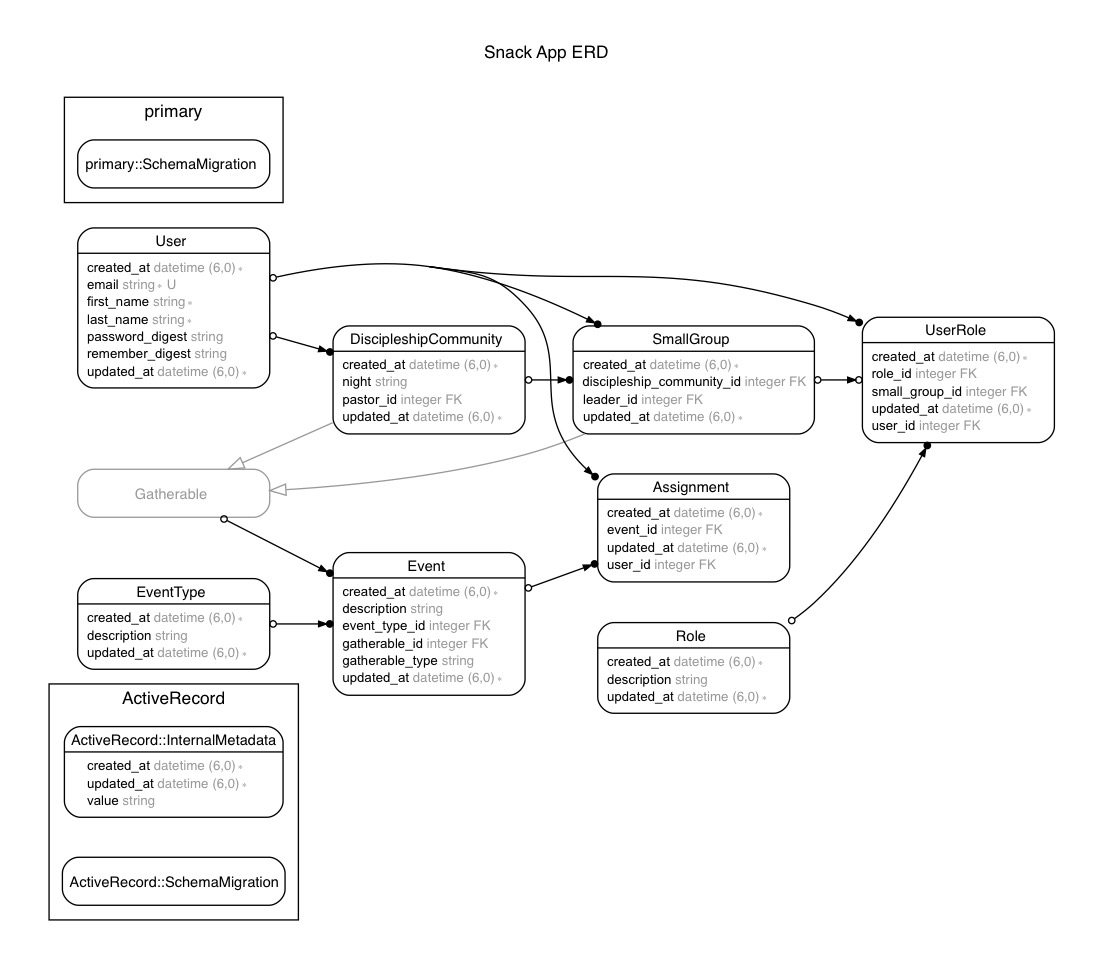
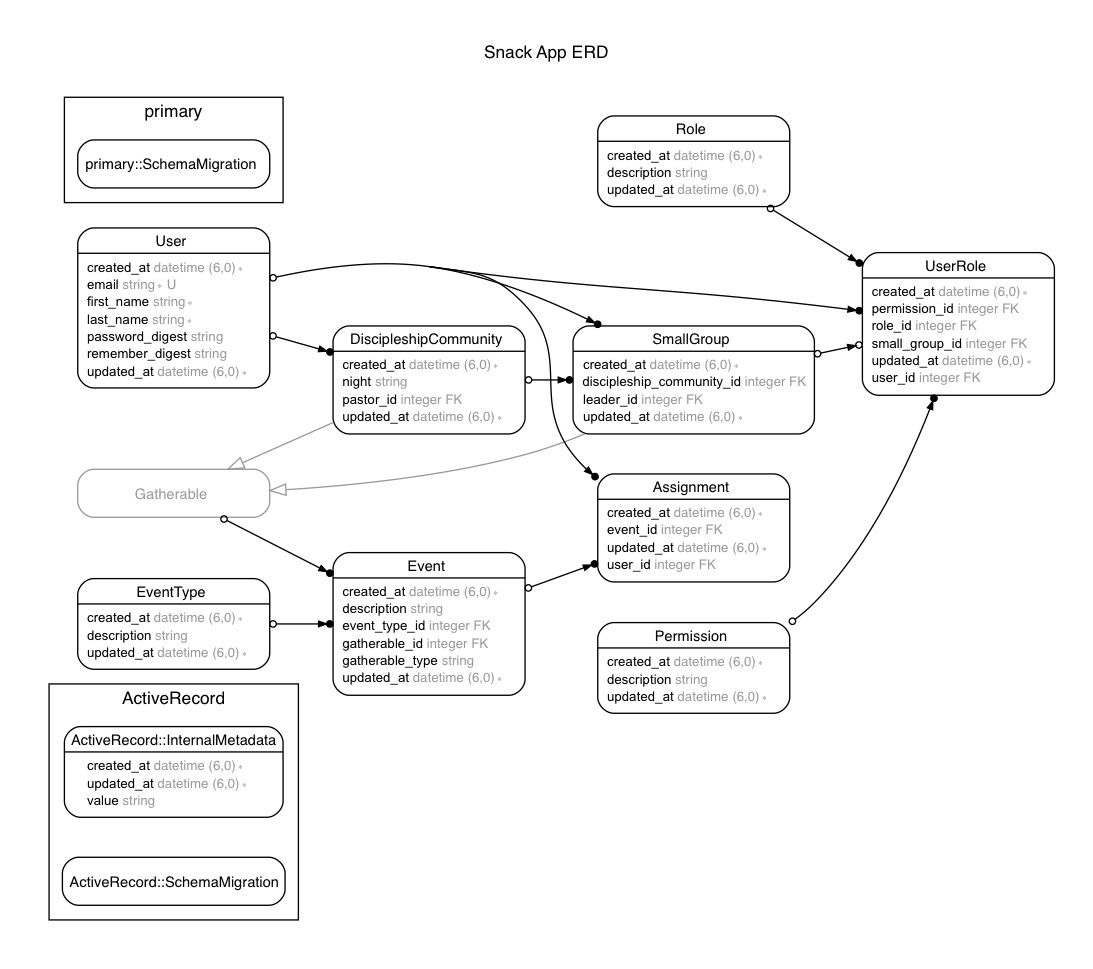
add user role permissions

diff --git a/app/assets/stylesheets/permissions.scss b/app/assets/stylesheets/permissions.scss
@@ -1,0 +1,3 @@
+// Place all the styles related to the Permissions controller here.
+// They will automatically be included in application.css.
+// You can use Sass (SCSS) here: http://sass-lang.com/

diff --git a/db/seeds.rb b/db/seeds.rb
@@ -6,10 +6,22 @@
 #   movies = Movie.create([{ name: 'Star Wars' }, { name: 'Lord of the Rings' }])
 #   Character.create(name: 'Luke', movie: movies.first)
 
-event_type_meeting = EventType.create({ event_type_description: 'Meeting' })
-event_type_dc = EventType.create({ event_type_description: 'Discipleship Community' })
-event_type_party = EventType.create({ event_type_description: 'Party' })
-event_type_other = EventType.create({ event_type_description: 'Other' })
+event_types = EventType.create([
+  { description: 'Meeting' },
+  { description: 'Discipleship Community' },
+  { description: 'Party' },
+  { description: 'Other' }
+  ])
+
+permissions = Permission.create([
+  { description: 'User' },
+  { description: 'Group Assistant' },
+  { description: 'Group Coordinator' },
+  { description: 'Discipleship Community Assistant' },
+  { description: 'Discipleship Community Coordinator' },
+  { description: 'Supervisor' },
+  { description: 'Administrator' }
+])
 
 users = User.create([
   { first_name: 'Discipleship Community', last_name: 'Pastor', email: 'pastor@discipleshipcommunity.com', 
@@ -26,22 +38,24 @@ users = User.create([
       password: 'testingallthetests', password_confirmation: 'testingallthetests' }
 ])
 
+
+
 roles = Role.create([
-  { role_description: 'Discipleship Community pastor' },
-  { role_description: 'Small group leader' },
-  { role_description: 'Small group member' }
+  { description: 'Discipleship Community pastor' },
+  { description: 'Small group leader' },
+  { description: 'Small group member' }
 ])
 
 user_roles = UserRole.create([
-  { user_id: users[0].id, role_id: roles[0].id },
-  { user_id: users[1].id, role_id: roles[1].id, small_group_id: 1},
-  { user_id: users[2].id, role_id: roles[2].id, small_group_id: 1}
+  { user_id: users[0].id, role_id: roles[0].id, permission_id: permissions[3].id},
+  { user_id: users[1].id, role_id: roles[1].id, small_group_id: 1, permission_id: permissions[1].id},
+  { user_id: users[2].id, role_id: roles[2].id, small_group_id: 1, permission_id: permissions[0].id}
 ])
 
 discipleship_communities = DiscipleshipCommunity.create([
-  { pastor_id: users[0].id, discipleship_community_night: 'Tuesday'},
-  { pastor_id: users[0].id, discipleship_community_night: 'Wednesday'},
-  { pastor_id: users[0].id, discipleship_community_night: 'Thursday'}
+  { pastor_id: users[0].id, night: 'Tuesday'},
+  { pastor_id: users[0].id, night: 'Wednesday'},
+  { pastor_id: users[0].id, night: 'Thursday'}
 ])
 
 small_groups = SmallGroup.create([

diff --git a/db/schema.rb b/db/schema.rb
@@ -10,7 +10,7 @@
 #
 # It's strongly recommended that you check this file into your version control system.
 
-ActiveRecord::Schema.define(version: 2019_11_11_023634) do
+ActiveRecord::Schema.define(version: 2019_11_14_180921) do
 
   # These are extensions that must be enabled in order to support this database
   enable_extension "plpgsql"
@@ -49,6 +49,12 @@ ActiveRecord::Schema.define(version: 2019_11_11_023634) do
     t.index ["event_type_id"], name: "index_events_on_event_type_id"
   end
 
+  create_table "permissions", force: :cascade do |t|
+    t.string "description"
+    t.datetime "created_at", precision: 6, null: false
+    t.datetime "updated_at", precision: 6, null: false
+  end
+
   create_table "roles", force: :cascade do |t|
     t.string "description"
     t.datetime "created_at", precision: 6, null: false
@@ -70,6 +76,8 @@ ActiveRecord::Schema.define(version: 2019_11_11_023634) do
     t.integer "small_group_id"
     t.datetime "created_at", precision: 6, null: false
     t.datetime "updated_at", precision: 6, null: false
+    t.integer "permission_id"
+    t.index ["permission_id"], name: "index_user_roles_on_permission_id"
     t.index ["role_id"], name: "index_user_roles_on_role_id"
     t.index ["small_group_id"], name: "index_user_roles_on_small_group_id"
     t.index ["user_id"], name: "index_user_roles_on_user_id"

diff --git a/app/models/user_role.rb b/app/models/user_role.rb
@@ -1,4 +1,5 @@
 class UserRole < ApplicationRecord
+  belongs_to :permission, foreign_key: "permission_id"
   belongs_to :role, foreign_key: "role_id"
   belongs_to :small_group, foreign_key: "small_group_id", optional: true
   belongs_to :user, foreign_key: "user_id"

diff --git a/config/routes.rb b/config/routes.rb
@@ -1,4 +1,5 @@
 Rails.application.routes.draw do
+  resources :permissions
   # For details on the DSL available within this file, see https://guides.rubyonrails.org/routing.html
   # root '{{page name}}' to set root page
   root 'application#index'

diff --git a/db/migrate/20191114180921_add_permission_to_user_role.rb b/db/migrate/20191114180921_add_permission_to_user_role.rb
@@ -1,0 +1,6 @@
+class AddPermissionToUserRole < ActiveRecord::Migration[6.0]
+  def change
+    add_column :user_roles, :permission_id, :int
+    add_index :user_roles, :permission_id
+  end
+end

diff --git a/db/migrate/20191114180338_create_permissions.rb b/db/migrate/20191114180338_create_permissions.rb
@@ -1,0 +1,9 @@
+class CreatePermissions < ActiveRecord::Migration[6.0]
+  def change
+    create_table :permissions do |t|
+      t.string :description
+
+      t.timestamps
+    end
+  end
+end

diff --git a/test/controllers/permissions_controller_test.rb b/test/controllers/permissions_controller_test.rb
@@ -1,0 +1,7 @@
+require 'test_helper'
+
+class PermissionsControllerTest < ActionDispatch::IntegrationTest
+  # test "the truth" do
+  #   assert true
+  # end
+end

diff --git a/test/models/permission_test.rb b/test/models/permission_test.rb
@@ -1,0 +1,7 @@
+require 'test_helper'
+
+class PermissionTest < ActiveSupport::TestCase
+  # test "the truth" do
+  #   assert true
+  # end
+end

diff --git a/app/models/permission.rb b/app/models/permission.rb
@@ -1,0 +1,3 @@
+class Permission < ApplicationRecord
+  has_many :user_roles
+end

diff --git a/app/controllers/permissions_controller.rb b/app/controllers/permissions_controller.rb
@@ -1,0 +1,2 @@
+class PermissionsController < ApplicationController
+end

diff --git a/app/helpers/permissions_helper.rb b/app/helpers/permissions_helper.rb
@@ -1,0 +1,2 @@
+module PermissionsHelper
+end
